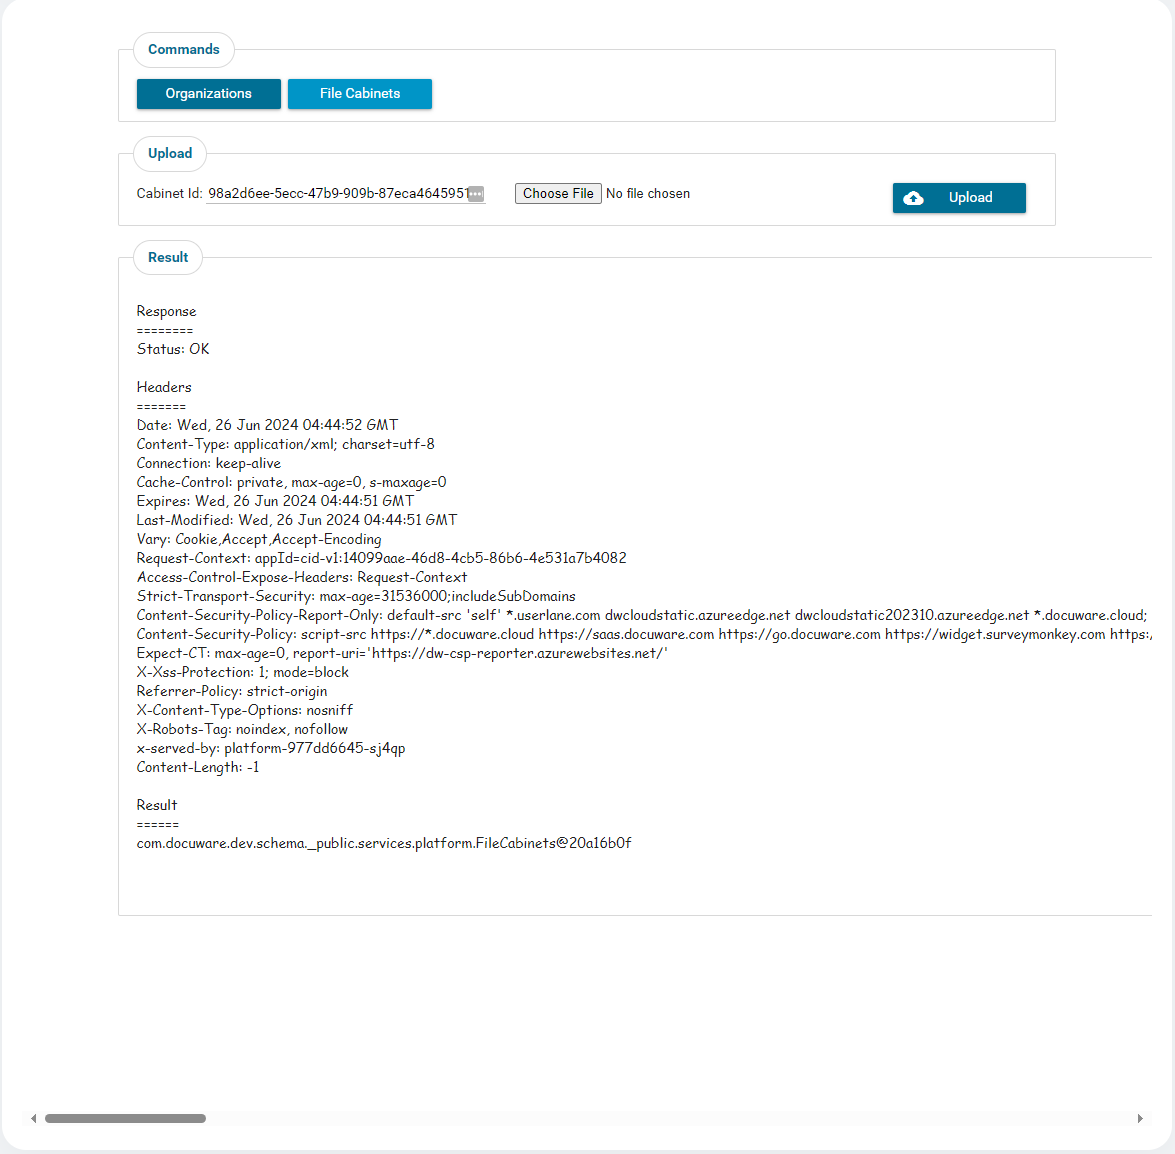
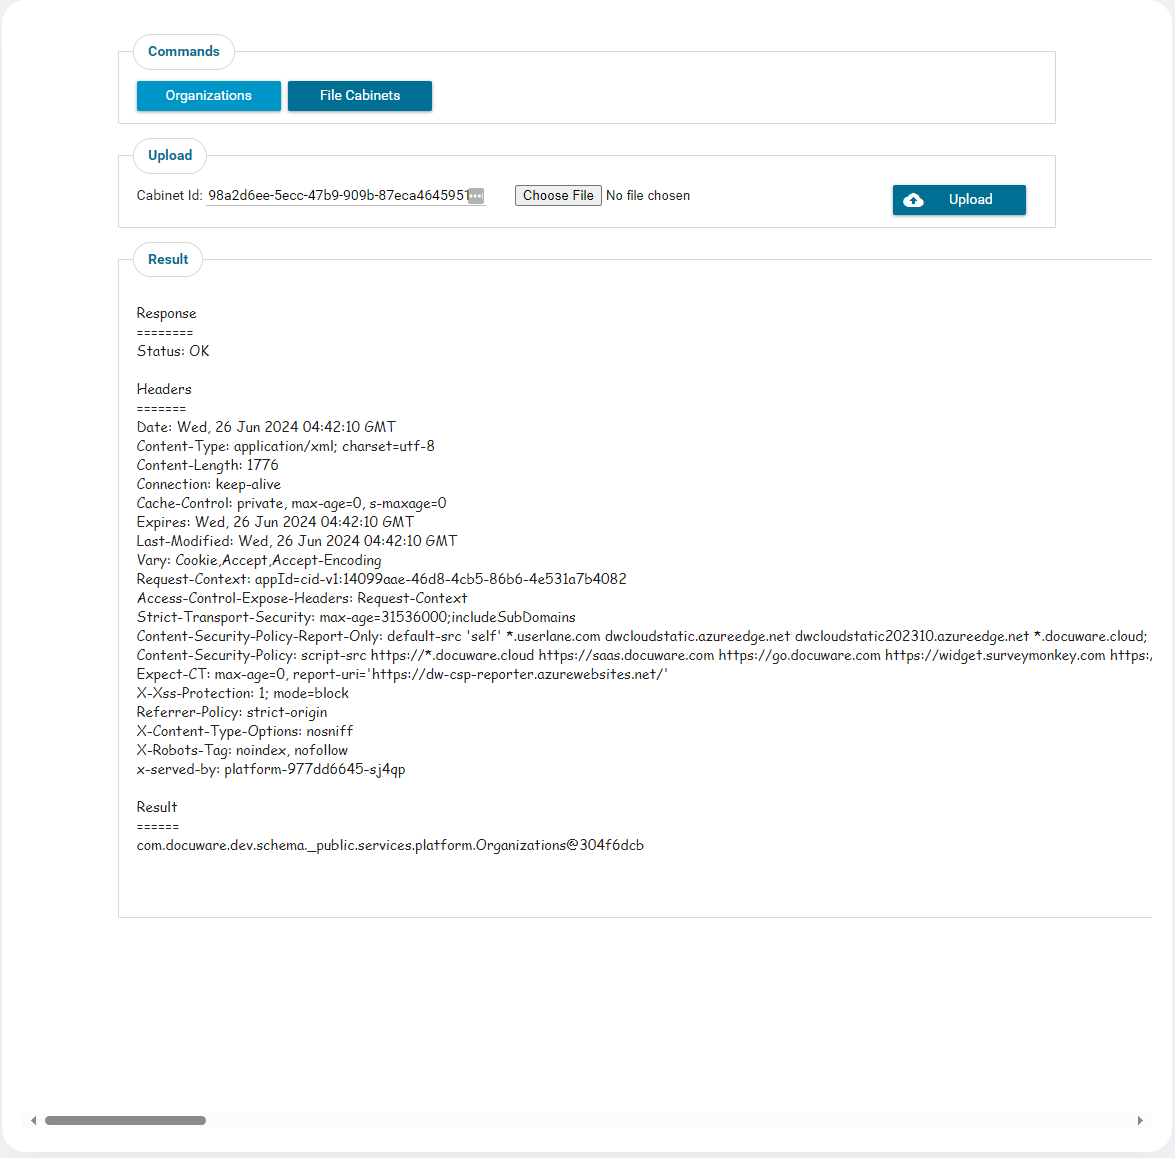
Update readme

Changed region(s): [[0.0919, 0.0312, 0.9804, 0.7487], [0.4289, 0.156, 0.5821, 0.1872], [0.766, 0.156, 0.8579, 0.1872]]

diff --git a/docuware-connector-product/README.md b/docuware-connector-product/README.md
@@ -17,17 +17,19 @@ Upload result
 
 ![demo-dialog](images/demo2.png)
 
-2. Provide a GUI to test some basic DocuWare calls.
-
 ![demo-dialog](images/demo3.png)
 
-Get Organizations
+2. Provide a GUI to test some basic DocuWare calls.
 
 ![demo-dialog](images/demo4.png)
 
-Get File Cabinets
+Get Organizations
 
 ![demo-dialog](images/demo5.png)
+
+Get File Cabinets
+
+![demo-dialog](images/demo6.png)
 
 ## Setup
 
